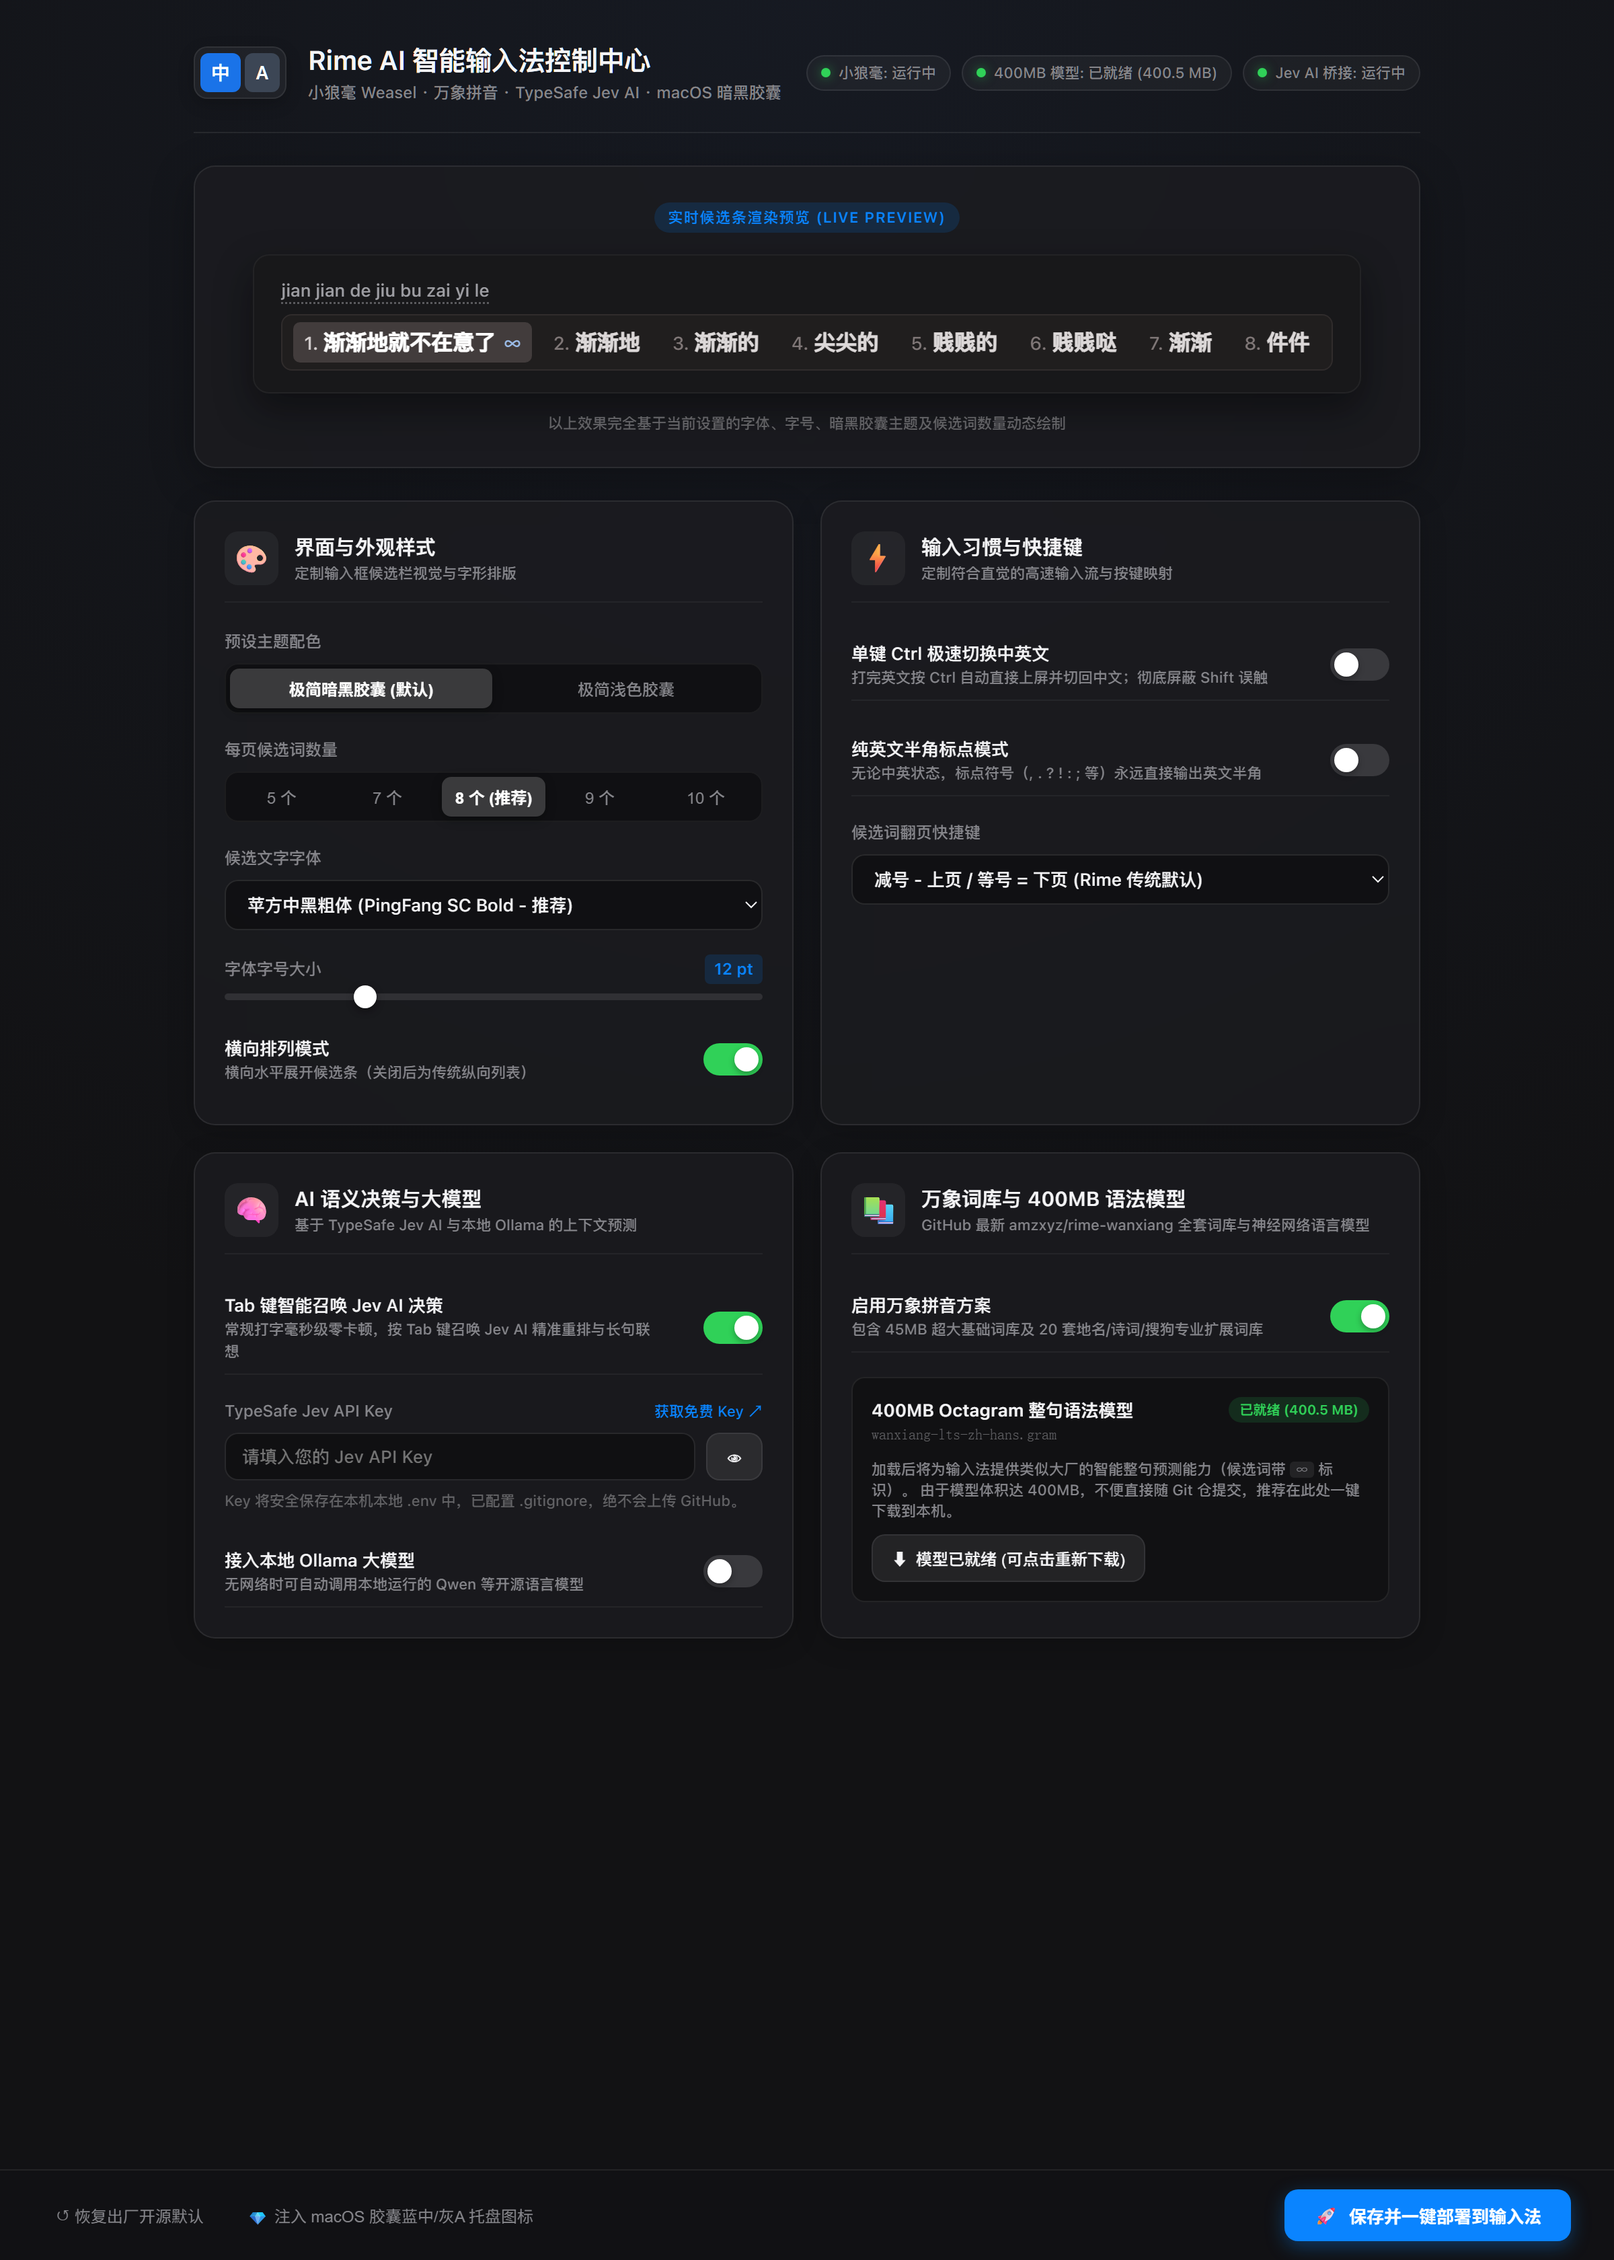
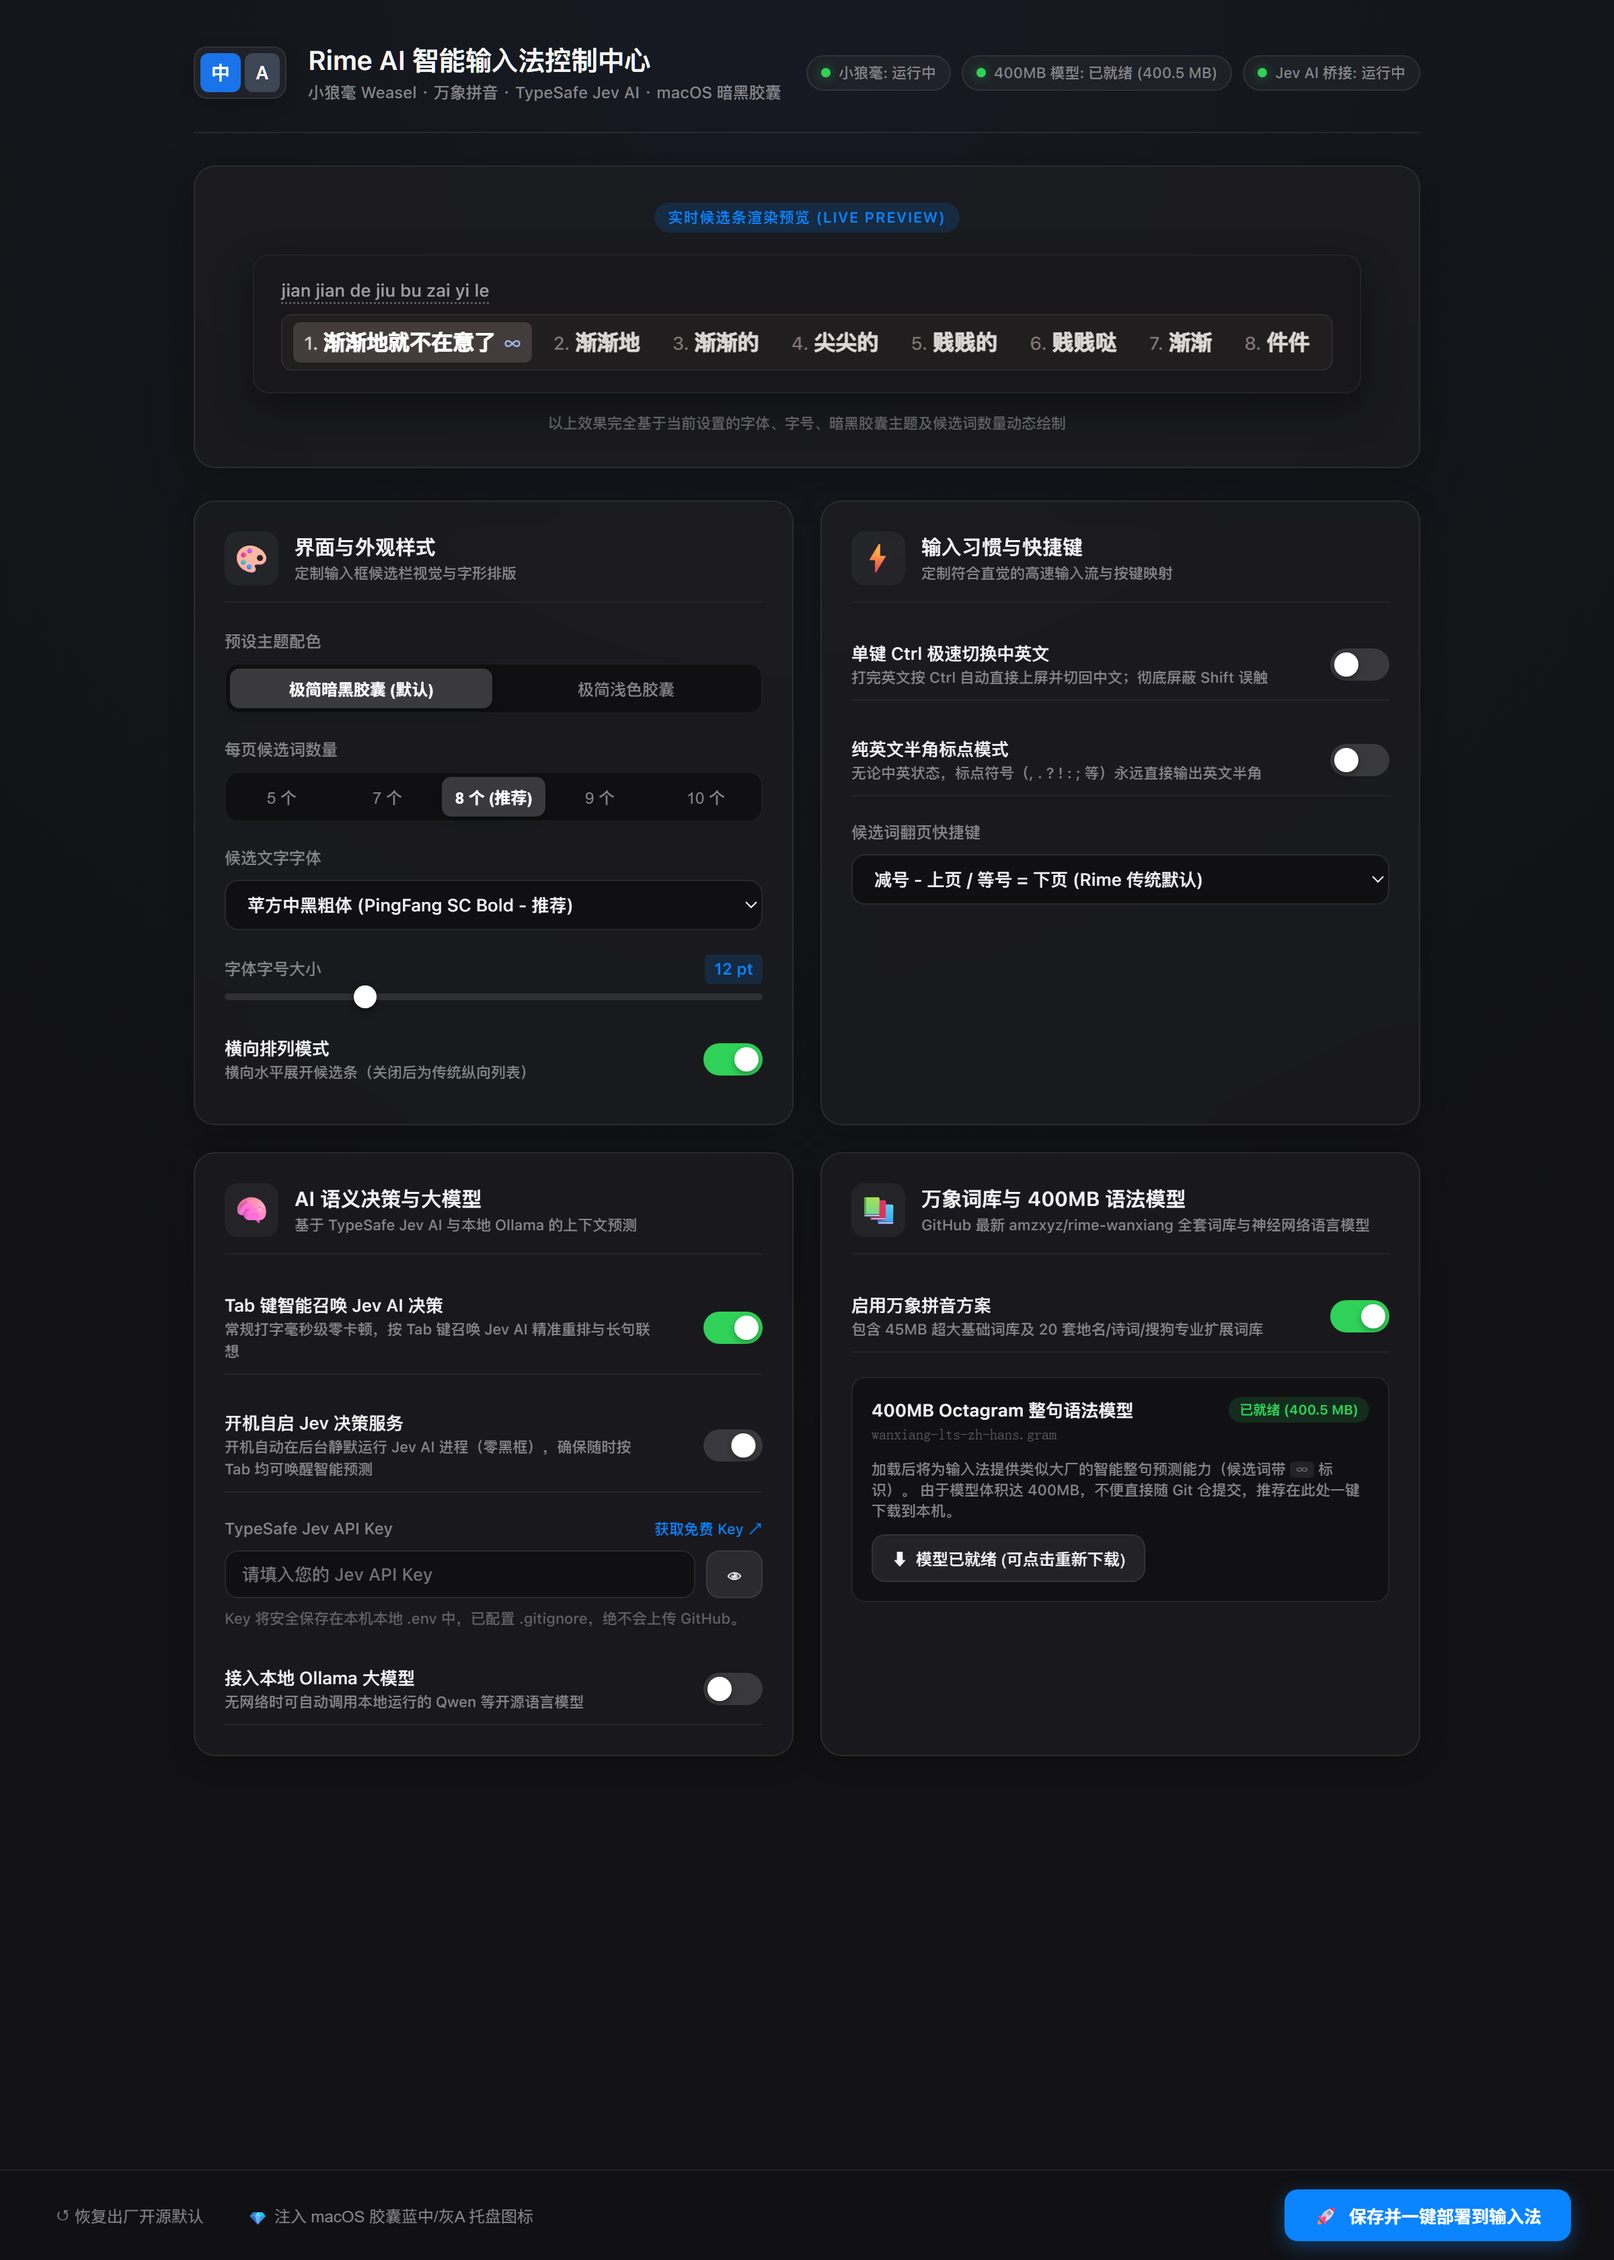
fix: resolve Wanxiang schema Tab keybinding compile bug, add Windows silent autostart support, and update preview

Changed region(s): [[0.125, 0.625, 0.375, 0.7812], [0.4062, 0.625, 0.4688, 0.7812], [0.3438, 0.625, 0.375, 0.6562]]

diff --git a/settings_panel/web/script.js b/settings_panel/web/script.js
@@ -60,6 +60,16 @@ async function loadConfig() {
   } catch (err) {
     console.error("加载配置失败:", err);
   }
+
+  // 加载开机自启状态
+  try {
+    const autoRes = await fetch("/api/autostart");
+    const autoData = await autoRes.json();
+    if (autoData && typeof autoData.enabled === "boolean") {
+      const sw = document.getElementById("switch-autostart");
+      if (sw) sw.checked = autoData.enabled;
+    }
+  } catch (e) {}
 }
 
 // 将配置数据同步到各 UI 控件
@@ -222,6 +232,22 @@ function bindEvents() {
   document.getElementById("switch-tab-jev").addEventListener("change", (e) => {
     currentConfig.tab_jev_ai = e.target.checked;
   });
+  const swAuto = document.getElementById("switch-autostart");
+  if (swAuto) {
+    swAuto.addEventListener("change", async (e) => {
+      try {
+        const res = await fetch("/api/autostart", {
+          method: "POST",
+          headers: { "Content-Type": "application/json" },
+          body: JSON.stringify({ enable: e.target.checked })
+        });
+        const data = await res.json();
+        showToast(data.message || (e.target.checked ? "已开启开机自启" : "已关闭开机自启"));
+      } catch (err) {
+        showToast("设置开机自启失败: " + err.message);
+      }
+    });
+  }
   document.getElementById("switch-wanxiang").addEventListener("change", (e) => {
     currentConfig.wanxiang_enabled = e.target.checked;
   });

diff --git a/settings_panel/web/index.html b/settings_panel/web/index.html
@@ -174,6 +174,17 @@
             </label>
           </div>
 
+          <div class="form-group switch-group">
+            <div>
+              <div class="switch-title">开机自启 Jev 决策服务</div>
+              <div class="switch-desc">开机自动在后台静默运行 Jev AI 进程（零黑框），确保随时按 Tab 均可唤醒智能预测</div>
+            </div>
+            <label class="mac-switch">
+              <input type="checkbox" id="switch-autostart">
+              <span class="slider"></span>
+            </label>
+          </div>
+
           <div class="form-group">
             <div class="label-with-value">
               <label>TypeSafe Jev API Key</label>

diff --git a/tools/autostart.py b/tools/autostart.py
@@ -1,0 +1,67 @@
+#!/usr/bin/env python3
+# -*- coding: utf-8 -*-
+"""
+Jev AI 决策服务 - Windows 开机自启管理工具
+支持一键将 Jev 桥接服务注册为 Windows 开机静默后台启动（零黑框、零弹窗）。
+"""
+
+import os
+import sys
+from pathlib import Path
+
+ROOT_DIR = Path(__file__).resolve().parent.parent
+STARTUP_DIR = Path(os.environ.get("APPDATA", "")) / "Microsoft" / "Windows" / "Start Menu" / "Programs" / "Startup"
+VBS_FILENAME = "RimeJevBridge.vbs"
+VBS_PATH = STARTUP_DIR / VBS_FILENAME
+
+
+def is_autostart_enabled() -> bool:
+    """检查是否已设置开机自启动"""
+    return VBS_PATH.exists()
+
+
+def enable_autostart() -> tuple[bool, str]:
+    """启用开机自启动（在 Startup 目录下写入静默 VBS 脚本）"""
+    try:
+        STARTUP_DIR.mkdir(parents=True, exist_ok=True)
+        bridge_script = ROOT_DIR / "run_bridge.py"
+        
+        # 寻找 pythonw.exe（无控制台窗口版本）
+        python_exe = Path(sys.executable)
+        pythonw_exe = python_exe.with_name("pythonw.exe")
+        py_runner = str(pythonw_exe) if pythonw_exe.exists() else str(python_exe)
+
+        vbs_content = f'''Set ws = CreateObject("Wscript.Shell")
+ws.CurrentDirectory = "{str(ROOT_DIR)}"
+ws.Run """{py_runner}"" ""{str(bridge_script)}""", 0, False
+'''
+        VBS_PATH.write_text(vbs_content, encoding="gbk")
+        return True, "已成功开启开机自启！Jev AI 决策服务将在开机后后台静默运行。"
+    except Exception as e:
+        return False, f"设置开机自启失败: {e}"
+
+
+def disable_autostart() -> tuple[bool, str]:
+    """取消开机自启动"""
+    try:
+        if VBS_PATH.exists():
+            VBS_PATH.unlink()
+        return True, "已成功关闭开机自启。"
+    except Exception as e:
+        return False, f"取消开机自启失败: {e}"
+
+
+if __name__ == "__main__":
+    if "--enable" in sys.argv:
+        ok, msg = enable_autostart()
+        print(f"[{'+' if ok else '!'}] {msg}")
+    elif "--disable" in sys.argv:
+        ok, msg = disable_autostart()
+        print(f"[{'+' if ok else '!'}] {msg}")
+    elif "--status" in sys.argv:
+        st = is_autostart_enabled()
+        print(f"Autostart is {'ENABLED' if st else 'DISABLED'}")
+    else:
+        st = is_autostart_enabled()
+        print(f"当前开机自启状态: {'已开启' if st else '未开启'}")
+        print("用法: python autostart.py [--enable | --disable | --status]")

diff --git a/settings_panel/app.py b/settings_panel/app.py
@@ -27,6 +27,7 @@ sys.path.insert(0, str(ROOT_DIR))
 from tools.deploy import get_default_config, sync_and_deploy
 from tools.download_model import download_grammar_model, get_default_dest, EXPECTED_SIZE
 from tools.patch_icons import run_patch
+from tools.autostart import is_autostart_enabled, enable_autostart, disable_autostart
 
 # 全局模型下载状态追踪
 download_state = {
@@ -177,6 +178,10 @@ class SettingsHandler(SimpleHTTPRequestHandler):
             self.send_json(download_state)
             return
 
+        elif path == "/api/autostart":
+            self.send_json({"ok": True, "enabled": is_autostart_enabled()})
+            return
+
         # 默认静态页面
         if path == "/":
             self.path = "/index.html"
@@ -271,6 +276,12 @@ class SettingsHandler(SimpleHTTPRequestHandler):
             cfg = get_default_config()
             save_settings(cfg)
             self.send_json({"ok": True, "config": cfg, "message": "已恢复开源出厂默认配置！"})
+            return
+
+        elif path == "/api/autostart":
+            enable = bool(payload.get("enable", False))
+            ok, msg = enable_autostart() if enable else disable_autostart()
+            self.send_json({"ok": ok, "message": msg, "enabled": is_autostart_enabled()})
             return
 
         self.send_json({"ok": False, "message": "未知 API"}, code=404)

diff --git a/tools/deploy.py b/tools/deploy.py
@@ -110,7 +110,7 @@ patch:
 
 def generate_wanxiang_custom_yaml(config):
     """根据配置生成 wanxiang.custom.yaml"""
-    page_size = config.get("page_size", 5)
+    page_size = config.get("page_size", 8)
     ascii_punct = config.get("ascii_punct", False)
     paging_keys = config.get("paging_keys", "minus_equal")
     tab_jev_ai = config.get("tab_jev_ai", True)
@@ -131,7 +131,7 @@ def generate_wanxiang_custom_yaml(config):
     if tab_jev_ai:
         bindings.append("    - {when: has_menu, accept: Tab, toggle: jev_ai}")
 
-    bindings_block = "  key_binder/bindings/+:\n" + "\n".join(bindings)
+    bindings_block = "  key_binder/import_preset: default\n  key_binder/bindings:\n" + "\n".join(bindings)
 
     punct_block = ""
     if ascii_punct:
@@ -144,6 +144,13 @@ def generate_wanxiang_custom_yaml(config):
 patch:
   menu/page_size: {page_size}
 
+  # 注册 jev_ai 开关
+  switches/@next:
+    name: jev_ai
+    reset: 0
+    states: [AI关, AI开]
+
+  # 挂载 Jev AI 语义重排过滤器
   engine/filters/@next: lua_filter@jev_filter
 
 {bindings_block}

diff --git a/run_bridge.py b/run_bridge.py
@@ -28,7 +28,7 @@ def _load_dotenv() -> Path:
 
 def _first_run_key_prompt(env_file: Path) -> None:
     current_key = os.getenv("TYPESAFE_API_KEY", "").strip()
-    if current_key or not sys.stdin.isatty():
+    if current_key or not sys.stdin or not getattr(sys.stdin, "isatty", lambda: False)():
         return
     print("=" * 56)
     print("  欢迎使用 Jev + Rime 智能输入法桥接服务！")

diff --git a/README.md b/README.md
@@ -18,7 +18,7 @@
 - 🎨 **macOS 极简暗黑胶囊主题（默认内置）**  
   摒弃传统输入法刺眼的亮蓝大色块，采用苹果原装深灰半透明圆角卡片（`#201E1E`）与微亮深灰高亮胶囊（`#423C3C`），文字聚焦纯白，搭配 12pt 苹方粗体（PingFang SC Bold），视觉高级低调。
 - 🧠 **双模 AI 语义重排与预测**  
-  支持 **TypeSafe Jev AI** 毫秒级上下文决策与本地 **Ollama（如 Qwen 8B）** 开源大模型。支持 **`Tab` 键智能召唤模式**：常规打字零进程、零卡顿、极速飞快；仅在需要长句预测或多音词纠偏时按 Tab 键主动召唤 AI（带 `✦ Jev` 标记）。
+  支持 **TypeSafe Jev AI** 毫秒级上下文决策与本地 **Ollama（如 Qwen 8B）** 开源大模型。支持 **`Tab` 键智能召唤模式**：常规打字零进程、零卡顿、极速飞快；支持一键开启 Windows 开机静默后台自启（零黑框），开机随时按 Tab 键主动召唤 AI（带 `✦ Jev` 标记）。
 - 📚 **万象拼音顶级词库与 400MB 语法模型**  
   集成持续活跃维护的 [amzxyz/rime-wanxiang](https://github.com/amzxyz/rime-wanxiang) 全套 20 个精品词典（45MB 基础大词库 + 地名/诗词/搜狗专业词库，编译后达 82MB 检索表）。支持一键加载官方 **400MB Octagram 语法语言模型**，实现大厂级整句智能预测（带 `∞` 标识）。
 - 🎛 **现代图形化交互设置面板 (Web GUI)**  
@@ -121,9 +121,11 @@ rime-ai-shurufa/
 │   └── wanxiang/                 # 万象核心 Lua 组件集
 │
 ├── tools/                        # 自动化维护工具
+│   ├── autostart.py              # Windows 开机静默后台自启管理脚本
 │   ├── deploy.py                 # 配置同步与编译部署脚本
 │   ├── download_model.py         # 400MB 语法模型断点续传下载工具
-│   └── patch_icons.py            # 托盘图标一键更新为 macOS 蓝中/灰A
+│   ├── patch_icons.py            # 托盘图标一键更新为 macOS 蓝中/灰A
+│   └── render_preview.py         # 4K Retina 超清截图生成脚本
 │
 └── assets/                       # 图标与静态资源
     ├── zh_modern.ico             # 高清 macOS 皇家蓝“中”
